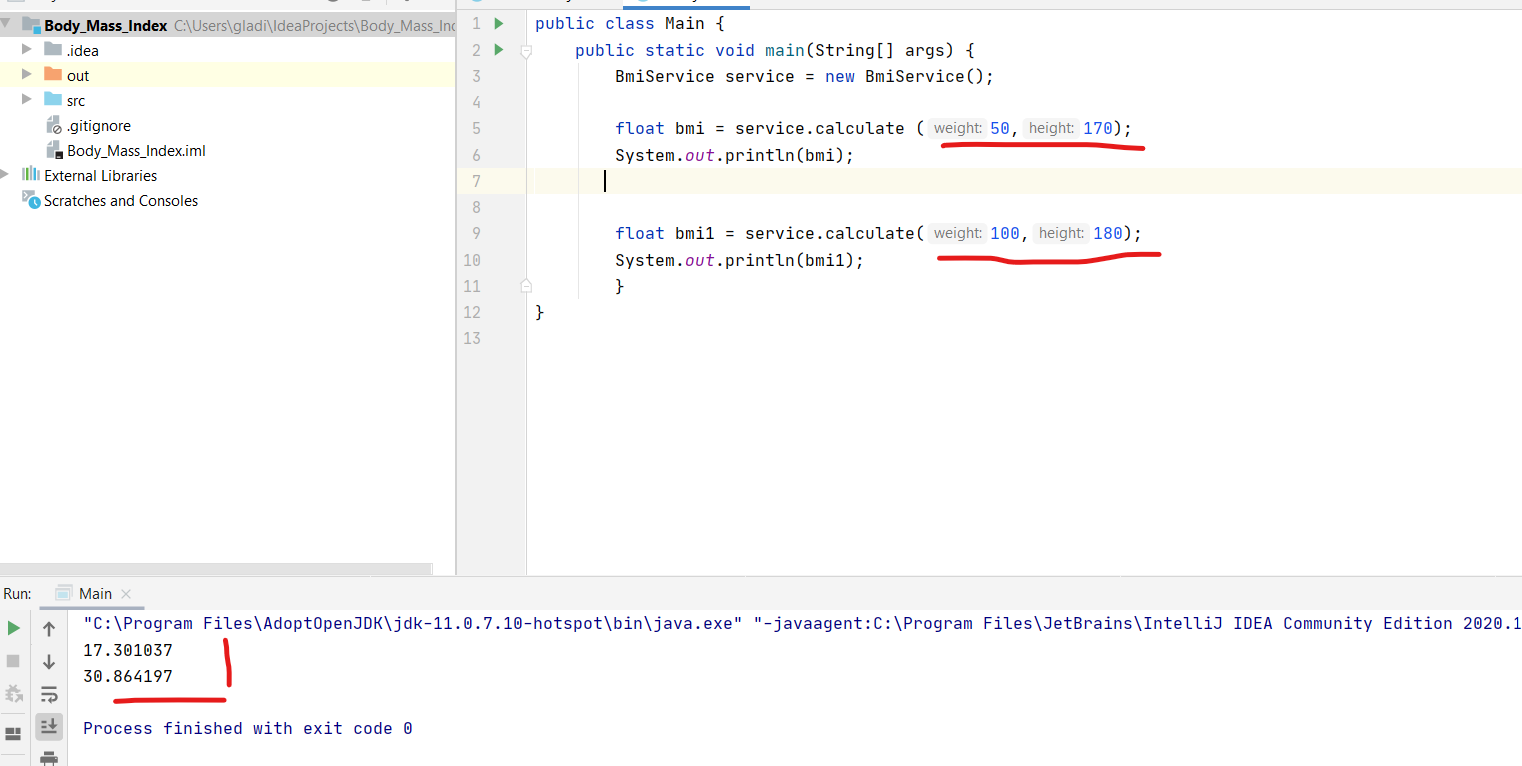
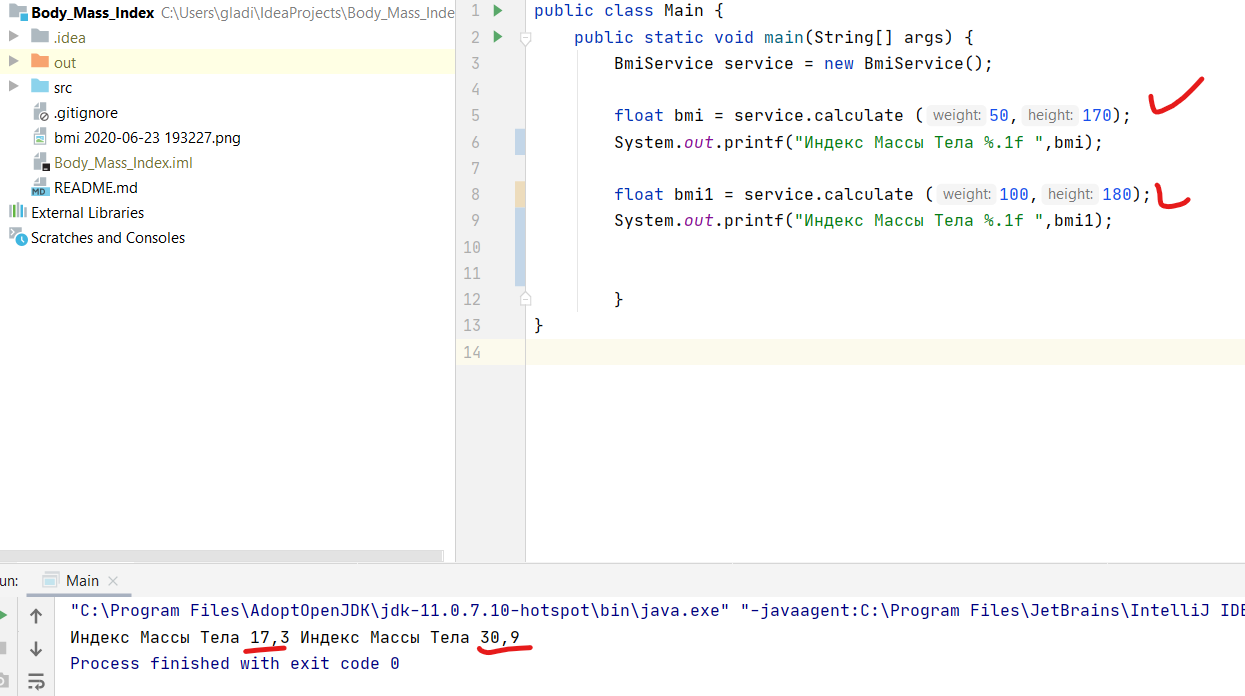
Added name to print

diff --git a/src/Main.java b/src/Main.java
@@ -3,10 +3,11 @@ public class Main {
         BmiService service = new BmiService();
 
         float bmi = service.calculate (50,170);
-        System.out.println(bmi);
+        System.out.printf("Индекс Массы Тела %.1f ",bmi);
+
+        float bmi1 = service.calculate (100,180);
+        System.out.printf("Индекс Массы Тела %.1f ",bmi1);
 
 
-        float bmi1 = service.calculate(100,180);
-        System.out.println(bmi1);
         }
 }
